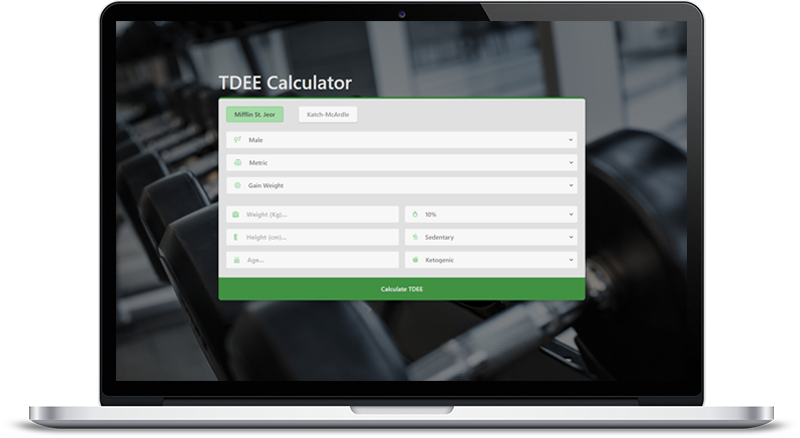
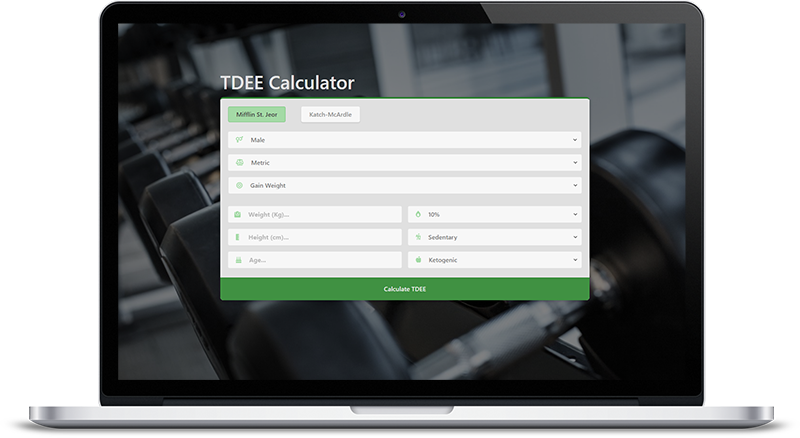
Added project

diff --git a/public/frontend/css/index.css b/public/frontend/css/index.css
@@ -831,84 +831,6 @@ body:before {
           justify-content: center;
 }
 
-@media (min-width: 1060px) {
-  .projects__card:first-child {
-    margin-bottom: -50px;
-  }
-}
-
-@media (min-width: 1200px) {
-  .projects__card:first-child {
-    margin: 50px 70px 30px 70px;
-  }
-  .projects__card:first-child .projects__desc-container {
-    margin-top: 40px;
-  }
-}
-
-.projects__card:first-child .projects__img-container {
-  width: 100%;
-  -webkit-box-pack: center;
-      -ms-flex-pack: center;
-          justify-content: center;
-}
-
-@media (min-width: 1060px) {
-  .projects__card:first-child .projects__img-container {
-    width: 50%;
-    margin-bottom: -150px;
-  }
-}
-
-@media (min-width: 1200px) {
-  .projects__card:first-child .projects__img-container {
-    width: 50%;
-    margin-bottom: -150px;
-  }
-}
-
-.projects__card:first-child img {
-  position: relative;
-  height: 60%;
-  margin-top: 30px;
-  width: 100%;
-}
-
-@media (min-width: 768px) {
-  .projects__card:first-child img {
-    width: 80%;
-  }
-}
-
-@media (min-width: 1060px) {
-  .projects__card:first-child img {
-    margin-left: -14px;
-    height: 60%;
-    margin-top: -30px;
-    width: 100%;
-  }
-}
-
-@media (min-width: 1200px) {
-  .projects__card:first-child img {
-    margin-left: -14px;
-    margin-top: 30px;
-    height: 76%;
-  }
-}
-
-@media (min-width: 1060px) {
-  .projects__card:first-child hr.solid {
-    margin-top: -20px;
-  }
-}
-
-@media (min-width: 1200px) {
-  .projects__card:first-child hr.solid {
-    margin-top: 0px;
-  }
-}
-
 .projects__card.right img {
   height: 36%;
 }
@@ -1141,6 +1063,84 @@ body:before {
 @media (min-width: 1200px) {
   .projects__card hr.solid {
     margin-top: 50px;
+  }
+}
+
+@media (min-width: 1060px) {
+  .laptop {
+    margin-bottom: -50px;
+  }
+}
+
+@media (min-width: 1200px) {
+  .laptop {
+    margin: 50px 70px 30px 70px;
+  }
+  .laptop .projects__desc-container {
+    margin-top: 40px;
+  }
+}
+
+.laptop .projects__img-container {
+  width: 100%;
+  -webkit-box-pack: center;
+      -ms-flex-pack: center;
+          justify-content: center;
+}
+
+@media (min-width: 1060px) {
+  .laptop .projects__img-container {
+    width: 50%;
+    margin-bottom: -150px;
+  }
+}
+
+@media (min-width: 1200px) {
+  .laptop .projects__img-container {
+    width: 50%;
+    margin-bottom: -150px;
+  }
+}
+
+.laptop img {
+  position: relative;
+  height: 60%;
+  margin-top: 30px;
+  width: 100%;
+}
+
+@media (min-width: 768px) {
+  .laptop img {
+    width: 80%;
+  }
+}
+
+@media (min-width: 1060px) {
+  .laptop img {
+    margin-left: -14px;
+    height: 60%;
+    margin-top: -30px;
+    width: 100%;
+  }
+}
+
+@media (min-width: 1200px) {
+  .laptop img {
+    margin-left: -14px;
+    margin-top: 30px;
+    height: 76%;
+  }
+}
+
+@media (min-width: 1060px) {
+  .laptop hr.solid {
+    margin-top: -20px;
+  }
+}
+
+@media (min-width: 1200px) {
+  .laptop hr.solid {
+    margin-top: 0px;
   }
 }
 

diff --git a/public/frontend/css/index.scss b/public/frontend/css/index.scss
@@ -656,58 +656,6 @@ $counter: $items - $rows + 2;
       justify-content: center;
     }
   }
-  &:first-child {
-    @include mq-1060 {
-      margin-bottom: -50px;
-    }
-    @include mq-lg {
-      margin: 50px 70px 30px 70px;
-      .projects__desc-container {
-        margin-top: 40px;
-      }
-    }
-    .projects__img-container {
-      width: 100%;
-      justify-content: center;
-      //margin-bottom: -150px;
-      @include mq-1060 {
-        width: 50%;
-        margin-bottom: -150px;
-      }
-      @include mq-lg {
-        width: 50%;
-        margin-bottom: -150px;
-      }
-    }
-    img {
-      position: relative;
-      height: 60%;
-      margin-top: 30px;
-      width: 100%;
-      @include mq-md {
-        width: 80%;
-      }
-      @include mq-1060 {
-        margin-left: -14px;
-        height: 60%;
-        margin-top: -30px;
-        width: 100%;
-      }
-      @include mq-lg {
-        margin-left: -14px;
-        margin-top: 30px;
-        height: 76%;
-      }
-    }
-    hr.solid {
-      @include mq-1060 {
-        margin-top: -20px;
-      }
-      @include mq-lg {
-        margin-top: 0px;
-      }
-    }
-  }
   &.right img {
     height: 36%;
     @include mq-1060 {
@@ -849,6 +797,59 @@ $counter: $items - $rows + 2;
     }
   }
 }
+.laptop {
+  @include mq-1060 {
+    margin-bottom: -50px;
+  }
+  @include mq-lg {
+    margin: 50px 70px 30px 70px;
+    .projects__desc-container {
+      margin-top: 40px;
+    }
+  }
+  .projects__img-container {
+    width: 100%;
+    justify-content: center;
+    //margin-bottom: -150px;
+    @include mq-1060 {
+      width: 50%;
+      margin-bottom: -150px;
+    }
+    @include mq-lg {
+      width: 50%;
+      margin-bottom: -150px;
+    }
+  }
+  img {
+    position: relative;
+    height: 60%;
+    margin-top: 30px;
+    width: 100%;
+    @include mq-md {
+      width: 80%;
+    }
+    @include mq-1060 {
+      margin-left: -14px;
+      height: 60%;
+      margin-top: -30px;
+      width: 100%;
+    }
+    @include mq-lg {
+      margin-left: -14px;
+      margin-top: 30px;
+      height: 76%;
+    }
+  }
+  hr.solid {
+    @include mq-1060 {
+      margin-top: -20px;
+    }
+    @include mq-lg {
+      margin-top: 0px;
+    }
+  }
+}
+
 hr {
   @include mq-1060 {
     margin-top: 50px;

diff --git a/public/frontend/index.html b/public/frontend/index.html
@@ -236,7 +236,7 @@
     <section id="projects" class="projects-container">
       <h1>My Projects</h1>
       <div class="projects__card-wrapper">
-        <div id="p-card1" class="projects__card slide-in from-below">
+        <div id="p-card1" class="projects__card laptop slide-in from-below">
           <div class="projects__img-container">
             <img
               src="/public/frontend/assets/tdee-proj.png"
@@ -410,6 +410,38 @@
               <p>
                 <span class="projects__tech-title">Tech://</span>
                 NodeJS, DiscordJS
+              </p>
+              <a
+                href="https://github.com/calcmp/discord-bot"
+                target="_blank"
+                aria-label="discord bot github page"
+              >
+                view me
+              </a>
+            </div>
+          </div>
+          <hr class="solid slide-in from-below" />
+        </div>
+
+        <div id="p-card6" class="projects__card laptop slide-in from-below right">
+          <div class="projects__img-container">
+            <img
+              src="/public/frontend/assets/ring-converter.png"
+              loading="lazy"
+              alt="Screenshot of ring size converter web app"
+            />
+          </div>
+          <div class="projects__desc-container">
+            <p>
+              I created <span class="projects__title">Ring Size Converter</span> when I was
+              looking for a way to find my ring size online and everything I came across was
+              inconsistent or ambiguous. I wanted to get to grips with and start learning Golang, 
+              so I chose to use that to create the backend.
+            </p>
+            <div class="projects__desc-footer">
+              <p>
+                <span class="projects__tech-title">Tech://</span>
+                ReactJS, Golang, Material-UI
               </p>
               <a
                 href="https://github.com/calcmp/discord-bot"
